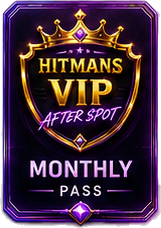
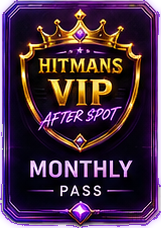
Neon rims — the white keyline goes, the glow stays
The sliced UI kit draws a light, desaturated stroke around the outside of every
button, plate and card. On the sheet it was cut from that is a crisp edge. On
this app's near-black screen, next to magenta artwork, it reads as a WHITE
BORDER around everything pink — which is the single thing making the chrome
look cheap.

Measured first: 16 of the 162 assets the app actually renders carry it, worst
at 34% of their outer ring.

tools/neon-rim.py repaints them, and what it does NOT do is most of the design:

  * It does not delete the stroke. The stroke is doing real work separating the
    shape from the background, and a flat de-fringe leaves the art soft.
  * It only touches the OUTER RING — opaque pixels within 2px of transparency.
    A specular highlight on a gold numeral is not a border, and an earlier pass
    that ignored this "fixed" 106 assets, several of them by wrecking them.
  * It does not force one brand colour. Each sprite is measured for the hue of
    its own rim, so a violet button glows violet, and only the pink/violet
    family is touched at all — a gold plate with a white edge is a different
    complaint from the one that was made.
  * It preserves the rim's LUMINANCE as intensity, so the bevel survives, and
    lays a soft bloom of the same hue underneath. That last part is the actual
    difference between an outline and a glow.

The CSS had the same problem in token form: --k-edge-soft was a desaturated
[…]

diff --git a/hitmans_vip_membership_app/src/kit.css b/hitmans_vip_membership_app/src/kit.css
@@ -39,13 +39,14 @@
      the GLOW do the work; thick metal borders eat space on a phone and read
      as dated. */
   --k-edge:        rgba(169, 53, 255, .55);
-  --k-edge-soft:   rgba(140, 130, 190, .22);
+  --k-edge-soft:   rgba(178, 96, 255, .30);
 
   --k-r-sm: 7px;
   --k-r:    12px;
   --k-r-lg: 18px;
 
   --k-glow-violet: 0 0 20px rgba(169, 53, 255, .40);
+  --k-glow-edge:   0 0 10px rgba(169, 53, 255, .16);
   --k-glow-gold:   0 0 18px rgba(255, 207, 71, .35);
   --k-glow-neon:   0 0 22px rgba(255, 61, 240, .45);
   --k-glow-cyan:   0 0 18px rgba(34, 211, 238, .38);
@@ -456,7 +457,7 @@
   border: 1px solid var(--k-edge);
   border-radius: var(--k-r);
   background: linear-gradient(180deg, var(--k-ink-2), var(--k-ink));
-  box-shadow: inset 0 1px 0 rgba(255, 255, 255, .05), 0 0 26px rgba(169, 53, 255, .16);
+  box-shadow: inset 0 1px 0 rgba(226, 190, 255, .10), 0 0 26px rgba(169, 53, 255, .16);
 }
 .app-panel header {
   border-bottom: 1px solid var(--k-edge-soft);
@@ -1859,7 +1860,7 @@
 .solo-run > span {
   flex: 1 1 0; min-width: 0; display: grid; gap: 2px; justify-items: center;
   padding: 6px 8px; border-radius: 9px;
-  border: 1px solid var(--k-edge-soft, rgba(255,255,255,.12)); background: rgba(255, 255, 255, .03);
+  border: 1px solid var(--k-edge-soft); box-shadow: var(--k-glow-edge); background: rgba(255, 255, 255, .03);
 }
 .solo-run i {
   font: 800 9px/1 var(--k-font, inherit); letter-spacing: .16em; text-transform: uppercase;
@@ -1948,7 +1949,7 @@
 .hud-strip {
   display: flex; align-items: center; gap: 10px; min-width: 0;
   padding: 7px 11px; border-radius: 11px;
-  border: 1px solid var(--k-edge-soft, rgba(255,255,255,.12));
+  border: 1px solid var(--k-edge-soft); box-shadow: var(--k-glow-edge);
   background: rgba(255, 255, 255, .04);
 }
 .hud-strip-now {
@@ -1969,7 +1970,7 @@
 
 .hud-strip-round {
   flex: 0 0 auto; display: flex; align-items: baseline; gap: 6px;
-  padding-left: 10px; border-left: 1px solid var(--k-edge-soft, rgba(255,255,255,.12));
+  padding-left: 10px; border-left: 1px solid var(--k-edge-soft);
 }
 .hud-strip-round b { font: 900 12px/1 var(--k-font, inherit); color: var(--k-text-dim, #b6a8cf); }
 .hud-strip-round u { text-decoration: none; color: #ffd66b; font-size: 12px; letter-spacing: .04em; }
@@ -1995,7 +1996,7 @@
 .solo-cpu {
   flex: 1 1 0; min-width: 0; display: flex; align-items: center; gap: 6px;
   padding: 5px 8px; border-radius: 9px;
-  border: 1px solid var(--k-edge-soft, rgba(255,255,255,.12)); background: rgba(255,255,255,.03);
+  border: 1px solid var(--k-edge-soft); box-shadow: var(--k-glow-edge); background: rgba(255,255,255,.03);
 }
 .solo-cpu .solo-cpu-meter { flex: 1 1 auto; min-width: 0; margin: 0; }
 .solo-cpu-prog { flex: 0 0 auto; font: 800 10px/1 var(--k-font, inherit); color: var(--k-text-faint, #8a7ba8); font-variant-numeric: tabular-nums; }
@@ -2198,7 +2199,7 @@
 .mic-yes:active { transform: scale(.97); }
 .mic-no {
   padding: 14px 22px; border-radius: 999px; cursor: pointer;
-  background: none; color: rgba(255, 255, 255, .62); border: 1px solid rgba(255, 255, 255, .28);
+  background: none; color: rgba(236, 222, 255, .72); border: 1px solid var(--k-edge-soft);
   font: 800 13px/1 var(--k-font, inherit); letter-spacing: .06em; text-transform: uppercase;
 }
 .mic-no:active { transform: translateY(1px); }
@@ -2334,7 +2335,7 @@
    is a deliberate, visible choice for the night. */
 .host-money {
   display: grid; gap: 6px; margin: 4px 0 10px; padding: 10px 12px; border-radius: 12px;
-  border: 1px solid var(--k-edge-soft, rgba(255,255,255,.12)); background: rgba(255,255,255,.03);
+  border: 1px solid var(--k-edge-soft); box-shadow: var(--k-glow-edge); background: rgba(255,255,255,.03);
 }
 .host-money.is-cash { border-color: rgba(255, 214, 107, .55); background: rgba(255, 214, 107, .07); }
 .host-money-toggle {
@@ -2375,7 +2376,7 @@
 .entry-rails { display: flex; flex-wrap: wrap; gap: 6px; }
 .entry-rail {
   padding: 7px 12px; border-radius: 999px; cursor: pointer;
-  background: none; border: 1px solid var(--k-edge-soft, rgba(255,255,255,.18));
+  background: none; border: 1px solid var(--k-edge-soft);
   color: var(--k-text-dim, #b6a8cf); font: 700 11px/1 var(--k-font, inherit);
 }
 .entry-rail.on { border-color: #ffd66b; color: #ffd66b; background: rgba(255, 214, 107, .14); }
@@ -2479,7 +2480,7 @@
 .entry-split .to-commons span, .entry-split .to-commons b { color: #8ef0c0; }
 .entry-split .all-players span, .entry-split .all-players b { color: #8ef0c0; }
 .entry-split-total {
-  margin-top: 2px; padding-top: 6px; border-top: 1px solid rgba(255, 255, 255, .14);
+  margin-top: 2px; padding-top: 6px; border-top: 1px solid var(--k-edge-soft);
 }
 .entry-split-total span, .entry-split-total b { color: #ffd66b; }
 

diff --git a/tools/neon-rim.py b/tools/neon-rim.py
@@ -1,0 +1,112 @@
+#!/usr/bin/env python3
+"""Turn the white keyline on the pink UI sprites into a neon rim.
+
+THE PROBLEM. The sliced UI kit draws a light, desaturated stroke around the
+outside of its buttons and plates. On the light sheet it was cut from that is a
+crisp edge. On this app's near-black background it reads as a WHITE BORDER
+around everything pink, which is the thing that looks cheap.
+
+WHAT THIS DOES NOT DO. It does not delete the stroke — it is doing real work
+separating the shape from the background, and a flat de-fringe leaves the art
+looking soft. It does not touch highlights INSIDE the art, only the outer ring,
+because a specular on a gold numeral is not a border. And it does not force one
+brand colour: each sprite is measured for the hue of its OWN rim, so a violet
+button glows violet.
+
+WHAT IT DOES. Repaints the ring in that hue at the ring's own brightness (so the
+bevel survives), then lays a soft bloom of the same hue underneath, which is the
+actual difference between an outline and a glow.
+
+  python3 tools/neon-rim.py            report only, writes nothing
+  python3 tools/neon-rim.py --preview  write before/after strips to /tmp/rimshots
+  python3 tools/neon-rim.py --apply    rewrite the assets in place
+"""
+import sys, os
+import numpy as np
+from PIL import Image, ImageFilter
+
+ROOT = os.path.join(os.path.dirname(__file__), '..', 'hitmans_vip_membership_app', 'public')
+APPLY = '--apply' in sys.argv
+PREVIEW = '--preview' in sys.argv
+SHOTS = '/tmp/rimshots'
+
+def ring_mask(a):
+    """The OUTER ring only: opaque, and within 2px of transparency.
+
+    Inside highlights are excluded by construction. That distinction is the
+    whole reason this is safe to run over a hundred sprites."""
+    shrunk = np.asarray(Image.fromarray(a).filter(ImageFilter.MinFilter(5)), dtype=np.uint8)
+    return (a > 120) & (shrunk < 40)
+
+def analyse(path):
+    im = Image.open(path).convert('RGBA')
+    arr = np.asarray(im).astype(np.float32)
+    rgb, a = arr[..., :3], arr[..., 3].astype(np.uint8)
+    ring = ring_mask(a)
+    if ring.sum() < 60: return None
+
+    mx, mn = rgb.max(2), rgb.min(2)
+    sat = np.where(mx > 0, (mx - mn) / np.maximum(mx, 1), 0)
+    lum = rgb.mean(2)
+
+    white = ring & (lum > 190) & (sat < 0.22)
+    # The rim's OWN colour, sampled from the coloured part of the same ring.
+    col = ring & (sat > 0.40) & (mx > 70)
+    if white.sum() < 40 or col.sum() < 60: return None
+
+    px = rgb[col]
+    norm = px / np.maximum(px.max(1, keepdims=True), 1)
+    hue = norm.mean(0); hue = hue / max(hue.max(), 1e-6)
+    R, G, B = hue
+    # Only the PINK/VIOLET family. A gold plate with a white edge is a different
+    # complaint and not the one that was made.
+    if not (R > 0.55 and B > 0.55 and G < min(R, B) - 0.18): return None
+    return im, arr, a, white, hue, int(white.sum()), float(white.sum()) / float(ring.sum())
+
+def neonise(arr, a, white, hue):
+    rgb = arr[..., :3]
+    lum = rgb.mean(2)
+    out = rgb.copy()
+    tint = hue[None, :] * 255.0
+    inten = np.clip((lum[white] - 175) / 80.0, 0, 1)[:, None]
+    # Brightness survives as intensity; a little white stays at the very top end
+    # so a corner specular still reads as one.
+    out[white] = tint * (0.60 + 0.40 * inten) + 255.0 * (inten ** 3) * 0.30
+    out = np.clip(out, 0, 255)
+
+    blur = np.asarray(Image.fromarray(a).filter(ImageFilter.GaussianBlur(radius=3.0)), dtype=np.float32)
+    halo = np.clip(blur * 0.40 - a.astype(np.float32) * 0.40, 0, 255)
+    ga, ta = halo[..., None] / 255.0, a.astype(np.float32)[..., None] / 255.0
+    oa = ta + ga * (1 - ta)
+    orgb = np.where(oa > 0, (out * ta + tint * ga * (1 - ta)) / np.maximum(oa, 1e-6), 0)
+    return Image.fromarray(np.dstack([orgb, oa * 255.0]).clip(0, 255).astype(np.uint8), 'RGBA')
+
+def onblack(im, pad=8):
+    bg = Image.new('RGBA', (im.width + pad * 2, im.height + pad * 2), (10, 9, 18, 255))
+    bg.alpha_composite(im, (pad, pad)); return bg
+
+used = [l.strip().lstrip('/') for l in open('/tmp/used.txt') if l.strip()]
+if PREVIEW: os.makedirs(SHOTS, exist_ok=True)
+rows = []
+for rel in used:
+    p = os.path.normpath(os.path.join(ROOT, rel))
+    if not os.path.exists(p): continue
+    r = analyse(p)
+    if not r: continue
+    im, arr, a, white, hue, n, frac = r
+    fixed = neonise(arr, a, white, hue)
+    tint = '#%02x%02x%02x' % tuple(int(c * 255) for c in hue)
+    rows.append((frac, n, tint, rel))
+    if PREVIEW:
+        b, f = onblack(im), onblack(fixed)
+        strip = Image.new('RGBA', (b.width + f.width + 10, max(b.height, f.height)), (10, 9, 18, 255))
+        strip.alpha_composite(b, (0, 0)); strip.alpha_composite(f, (b.width + 10, 0))
+        strip.save(os.path.join(SHOTS, os.path.basename(rel)))
+    if APPLY: fixed.save(p)
+
+rows.sort(reverse=True)
+print(f"{'white':>6} {'px':>5}  {'hue':<9} asset")
+for frac, n, tint, rel in rows:
+    print(f"{frac*100:>5.1f}% {n:>5}  {tint:<9} {os.path.basename(rel)}")
+print(f"\n{len(rows)} pink assets carry a white rim"
+      f"{' — REWRITTEN' if APPLY else (' — previews in ' + SHOTS if PREVIEW else ' (nothing written)')}")
